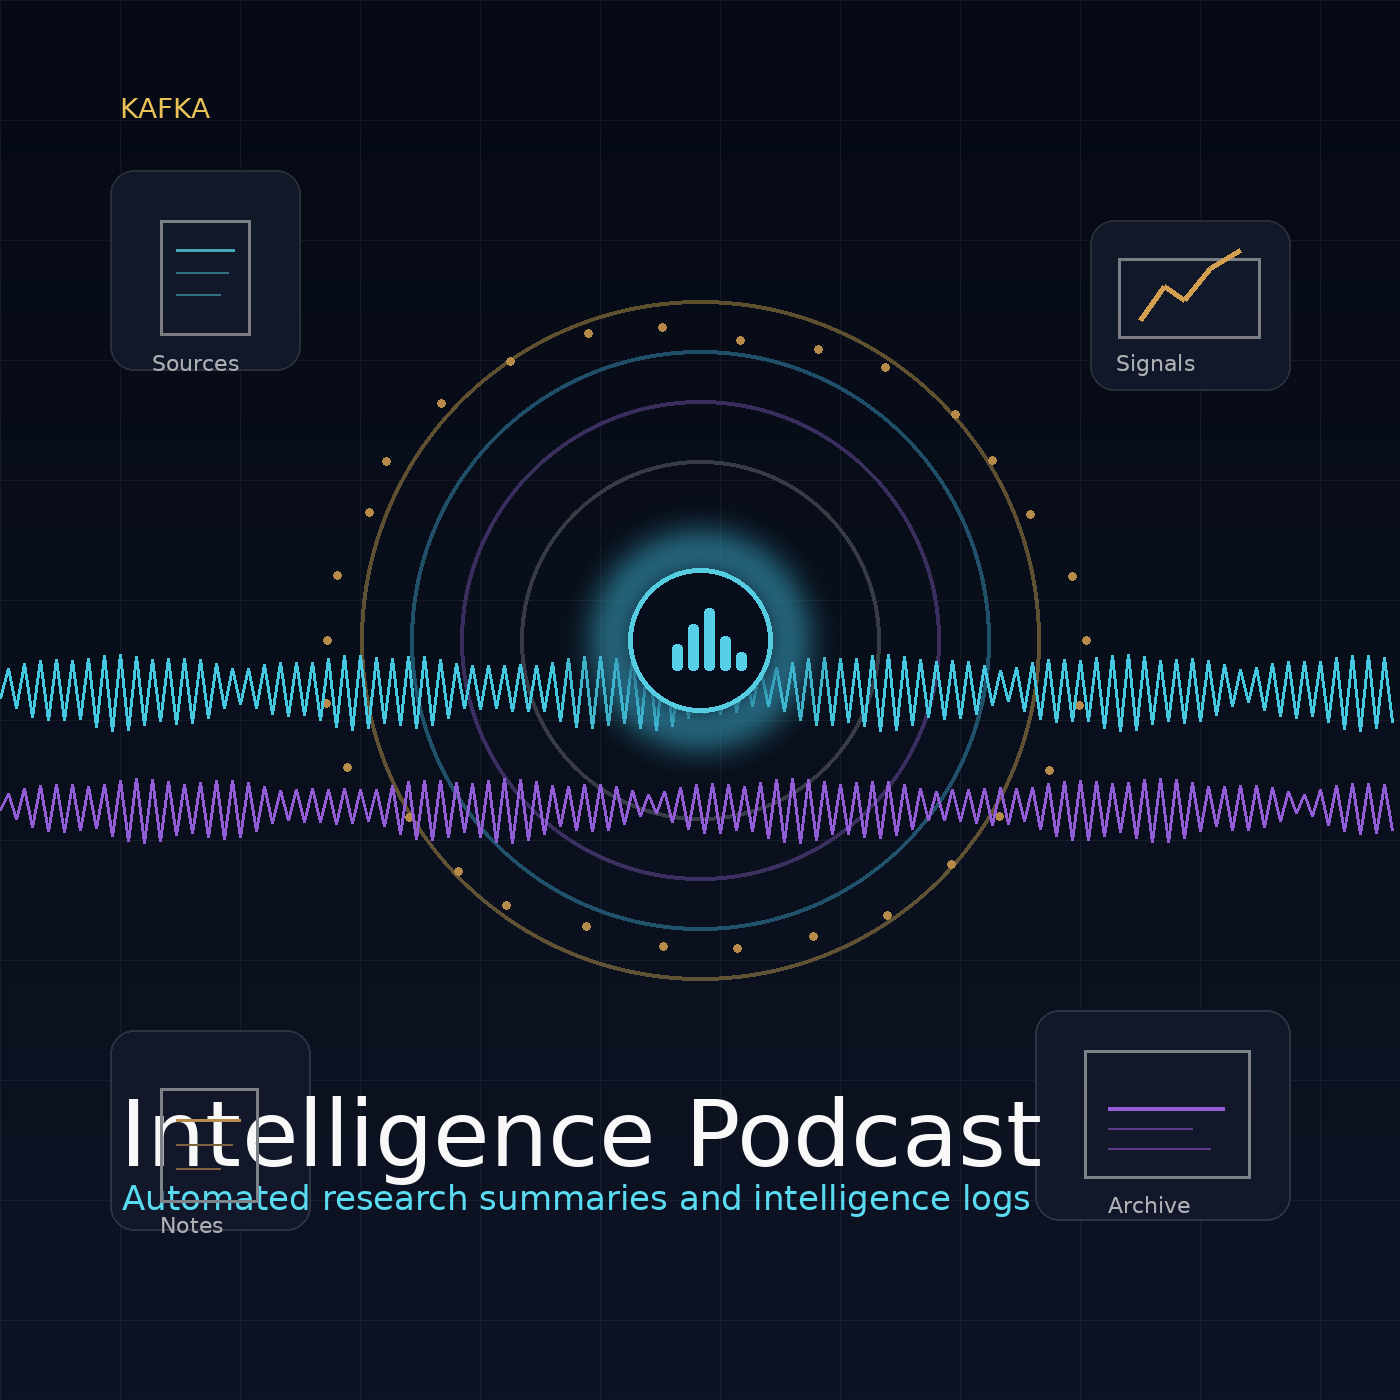
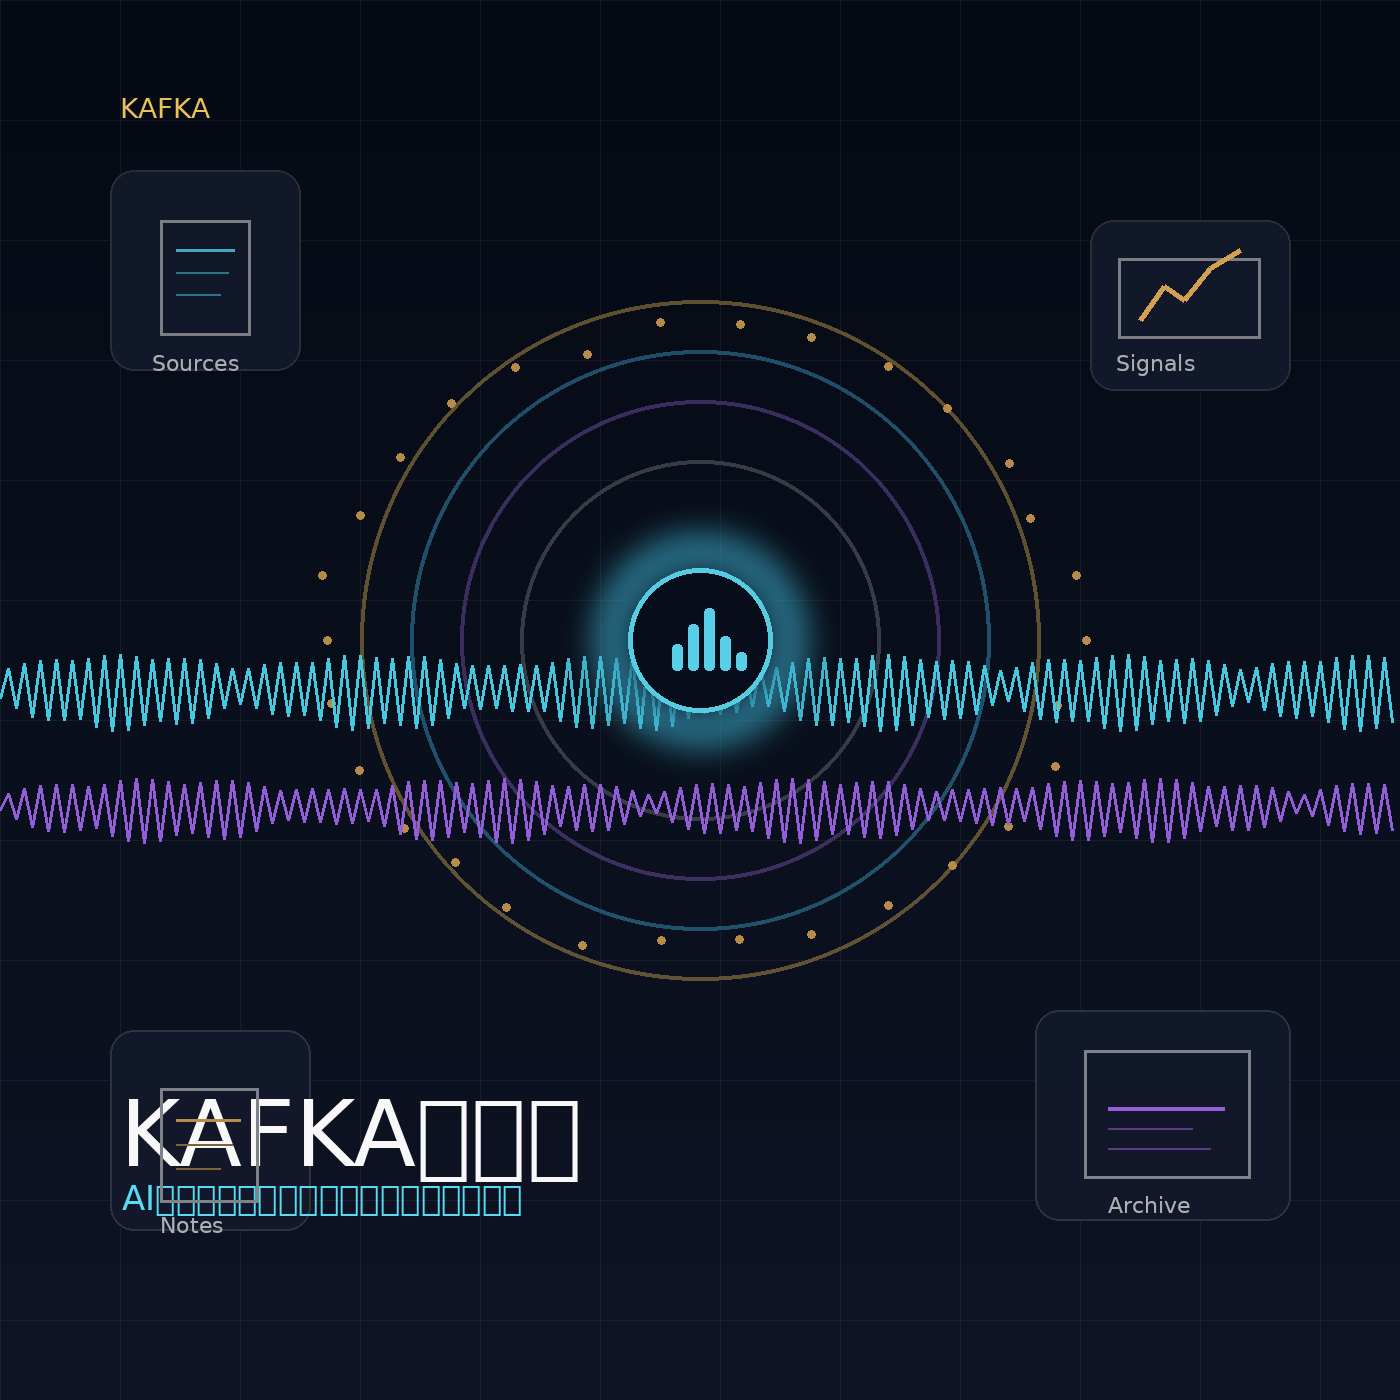
feat(podcast): refresh RSS feed

Changed region(s): [[0.0921, 0.7679, 0.7371, 0.8907]]

diff --git a/docs/index.html b/docs/index.html
@@ -3,7 +3,7 @@
 <head>
   <meta charset="utf-8">
   <meta name="viewport" content="width=device-width, initial-scale=1">
-  <title>KAFKA Signal Brief</title>
+  <title>KAFKA探究室</title>
   <style>
     body { font-family: -apple-system, BlinkMacSystemFont, "Segoe UI", Roboto, sans-serif; max-width: 600px; margin: 40px auto; padding: 20px; line-height: 1.6; text-align: center; background: #121212; color: #e0e0e0; }
     a { color: #bb86fc; text-decoration: none; font-weight: bold; }
@@ -15,9 +15,9 @@
   </style>
 </head>
 <body>
-  <h1>KAFKA Signal Brief</h1>
-  <p><img src="artwork.png" alt="KAFKA Signal Brief cover art" width="240" style="border-radius: 8px; box-shadow: 0 4px 10px rgba(0,0,0,0.5);"></p>
-  <p>The provided materials consist of financial filings, a news report, and a webinar transcript focused on high-growth technology and investment sectors. The Baron Select Funds 2023 annual report details the performance and holdings of various mutual funds, highlighting a heavy concentration in Tesla and SpaceX. A 2026 article from FinTech Weekly discusses a confidential SpaceX IPO filing, noting a massive valuation target and the rebuilding of its AI division, xAI. Complementing these documents, an ARK Funds webinar transcript from April 2026 offers expert analysis on macroeconomic trends, OpenAI integrations, and the potential for orbital data centers. Together, these sources track the evolving landscape of autonomous technology, generative AI, and the financial structures supporting these innovations.</p>
+  <h1>KAFKA探究室</h1>
+  <p><img src="artwork.png" alt="KAFKA探究室 cover art" width="240" style="border-radius: 8px; box-shadow: 0 4px 10px rgba(0,0,0,0.5);"></p>
+  <p>These documents consist of official financial filings, investment webinars, and industry news centered on the Baron Select Funds and ARK Invest. The 2023 Baron annual report provides audited performance data for various growth-oriented mutual funds, highlighting a heavy concentration in Tesla and a focus on long-term competitive advantages. Simultaneously, a 2026 ARK webinar and a FinTech Weekly report detail a transformative period for Elon Musk’s ventures, specifically a confidential SpaceX IPO filing. This planned public offering is expected to integrate Starlink, xAI, and X into a single entity valued at over $2 trillion. The sources collectively illustrate the evolution of high-growth investment strategies, the integration of artificial intelligence into aerospace infrastructure, and the shifting landscape of active fund management.</p>
 
   <div class="card">
     <h3>ポッドキャストを購読する</h3>